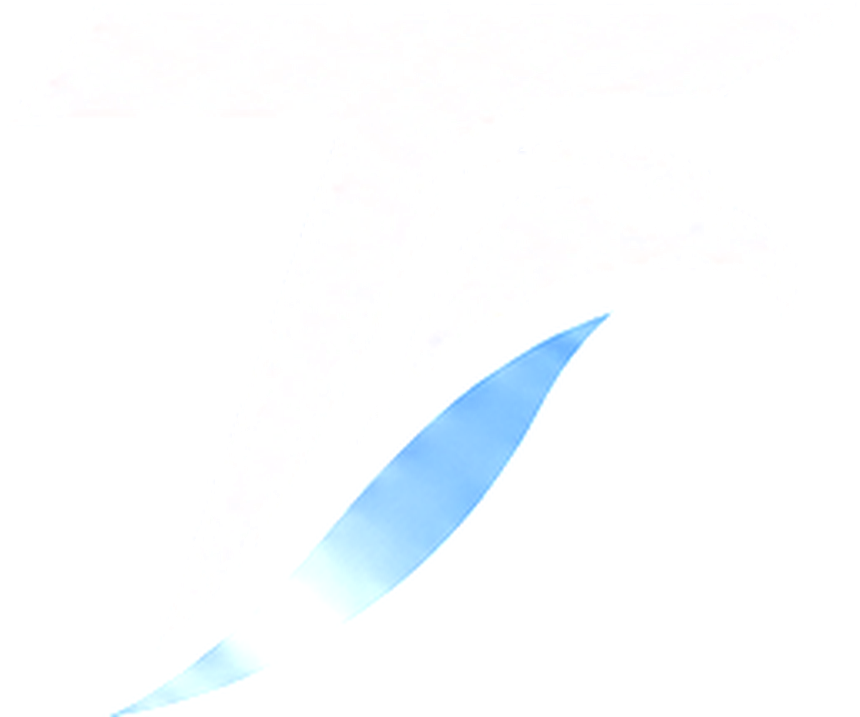
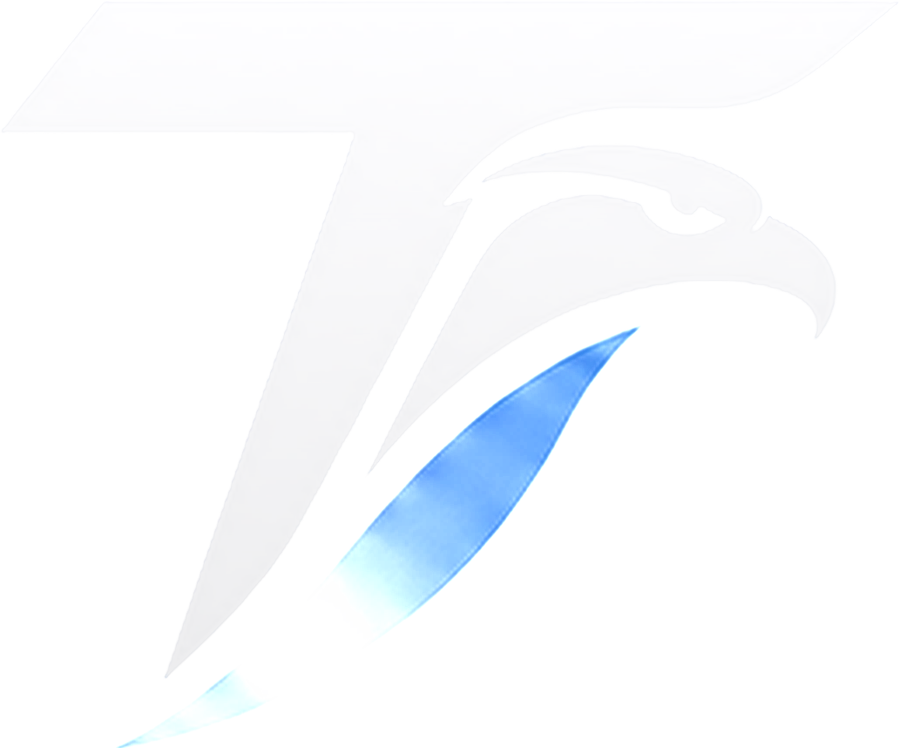
Animate the hero falcon and re-render it sharper
The mark is now three layers extracted from the banner with a 4x
supersampled key and a smootherstep alpha (no more glow halo), the
white fill flattened to a clean top-lit gradient: cobalt feather,
white bird, and a sheen band masked to the bird's own silhouette.

Entrance: the feather sweeps in, the bird lands on it, the amber eye
ignites and hands over to the resting pulse, and the sheen crosses
once (again on hero hover). At rest it floats slowly and tilts a few
degrees toward a fine pointer. Everything honours reduced-motion.

diff --git a/assets/styles.css b/assets/styles.css
@@ -202,20 +202,50 @@ strong{font-weight:600}
 .hero-trust span{display:inline-flex;align-items:center;gap:9px}
 .hero-trust .tick{width:14px;height:14px;color:#6E9BFF}
 
-/* The falcon */
+/* The falcon — layered: cobalt feather sweeps in, the bird lands on it,
+   the eye ignites, a sheen crosses the mark, then it settles into a slow
+   float with a pointer-tracked tilt. All of it opt-out via reduced-motion. */
 .hero-falcon{position:relative;display:none;pointer-events:none}
 @media(min-width:980px){.hero-falcon{display:block}}
 .hero-falcon .art{position:relative;width:min(43vw,600px);margin-left:auto;transform:translateX(1%)}
-.hero-falcon img{width:100%;
-  filter:drop-shadow(0 30px 60px rgba(0,0,0,.35));
+.hero-falcon .float{animation:falconFloat 9s ease-in-out 2.6s infinite}
+.hero-falcon .tilt{position:relative;aspect-ratio:900/748;
+  transform-style:preserve-3d;transition:transform .22s ease-out;
+  filter:drop-shadow(0 30px 60px rgba(0,0,0,.35))}
+.hero-falcon .tilt img{position:absolute;inset:0;width:100%;
   -webkit-mask-image:linear-gradient(200deg,#000 62%,transparent 96%);
           mask-image:linear-gradient(200deg,#000 62%,transparent 96%)}
-.hero-falcon .eye{ /* amber glow precisely on the falcon's eye: 79% / 28.5% */
-  content:"";position:absolute;left:79%;top:28.5%;width:22%;aspect-ratio:1;
+.hero-falcon .l-feather{animation:featherIn .8s var(--ease) .15s both}
+.hero-falcon .l-bird{animation:birdIn .9s var(--ease) .35s both}
+@keyframes featherIn{
+  from{opacity:0;transform:translate(-38px,56px) rotate(-12deg)}
+  to{opacity:1;transform:none}}
+@keyframes birdIn{
+  from{opacity:0;transform:translateY(26px) scale(.96)}
+  to{opacity:1;transform:none}}
+@keyframes falconFloat{0%,100%{transform:translateY(0)}50%{transform:translateY(-9px)}}
+
+/* sheen: a light band that sweeps once across the bird's own silhouette */
+.hero-falcon .sheen{position:absolute;inset:0;
+  -webkit-mask-image:url("/assets/falcon-bird.png");mask-image:url("/assets/falcon-bird.png");
+  -webkit-mask-size:100% 100%;mask-size:100% 100%;
+  background:linear-gradient(115deg,transparent 40%,rgba(255,255,255,.55) 50%,rgba(180,205,255,.25) 54%,transparent 62%);
+  background-size:260% 100%;background-repeat:no-repeat;
+  background-position:180% 0;
+  animation:sheenSweep 1.2s ease-out 1.35s both}
+@keyframes sheenSweep{from{background-position:180% 0}to{background-position:-120% 0}}
+.hero:hover .sheen{animation:sheenSweep 1.2s ease-out}
+
+/* eye: ignition flare, then the resting pulse takes over */
+.hero-falcon .eye{position:absolute;left:79%;top:28.5%;width:22%;aspect-ratio:1;
   transform:translate(-50%,-50%);border-radius:50%;
   background:radial-gradient(circle,rgba(245,166,35,.85) 0%,rgba(245,166,35,.25) 34%,transparent 70%);
   mix-blend-mode:screen;filter:blur(2px);
-  animation:eyePulse 5.5s ease-in-out infinite}
+  animation:eyeIgnite .9s var(--ease) 1.05s both,eyePulse 5.5s ease-in-out 2.6s infinite}
+@keyframes eyeIgnite{
+  0%{opacity:0;transform:translate(-50%,-50%) scale(.35)}
+  55%{opacity:1;transform:translate(-50%,-50%) scale(1.45)}
+  100%{opacity:.55;transform:translate(-50%,-50%) scale(1)}}
 @keyframes eyePulse{0%,100%{opacity:.55}50%{opacity:1}}
 .hero-fp{position:absolute;inset:auto 0 12% 0;z-index:1;opacity:.6;pointer-events:none}
 
@@ -521,5 +551,6 @@ strong{font-weight:600}
   .reveal{opacity:1;transform:none}
   .flightpath .fp-line{stroke-dashoffset:0}.flightpath .fp-tip{opacity:1}
   .hero-falcon .eye{animation:none;opacity:.8}
+  .hero-falcon .sheen{animation:none;opacity:0}
 }
 @media print{.site-head,.mnav,.hero-fp,.foot-word{display:none}body{background:#fff}}

diff --git a/index.html b/index.html
@@ -123,7 +123,7 @@
 
 <!-- ============================== HERO ============================== -->
 <section class="hero">
-  <img class="hero-ghost" src="/assets/falcon.png" alt="" width="860" height="717" aria-hidden="true">
+  <img class="hero-ghost" src="/assets/falcon.png" alt="" width="900" height="748" aria-hidden="true">
   <div class="hero-fp" aria-hidden="true">
     <svg class="flightpath fp--cobalt" viewBox="0 0 1440 220" preserveAspectRatio="none" role="presentation">
       <path class="fp-line" d="M-20 196 C 300 196, 540 150, 800 104 S 1230 20, 1460 12"/>
@@ -154,8 +154,14 @@
     </div>
     <div class="hero-falcon" aria-hidden="true">
       <div class="art">
-        <img src="/assets/falcon.png" alt="" width="860" height="717" fetchpriority="high">
-        <span class="eye"></span>
+        <div class="float">
+          <div class="tilt">
+            <img class="l-feather" src="/assets/falcon-feather.png" alt="" width="900" height="748" fetchpriority="high">
+            <img class="l-bird" src="/assets/falcon-bird.png" alt="" width="900" height="748" fetchpriority="high">
+            <span class="sheen"></span>
+            <span class="eye"></span>
+          </div>
+        </div>
       </div>
     </div>
   </div>
@@ -407,7 +413,7 @@
 
 <!-- ============================== FINAL CTA ============================== -->
 <section class="cta-band">
-  <img class="falcon-peek" src="/assets/falcon.png" alt="" width="860" height="717" aria-hidden="true" loading="lazy">
+  <img class="falcon-peek" src="/assets/falcon.png" alt="" width="900" height="748" aria-hidden="true" loading="lazy">
   <div class="wrap">
     <div>
       <p class="eyebrow">Get started</p>

diff --git a/_src/pages/index.html b/_src/pages/index.html
@@ -52,7 +52,7 @@
 
 <!-- ============================== HERO ============================== -->
 <section class="hero">
-  <img class="hero-ghost" src="/assets/falcon.png" alt="" width="860" height="717" aria-hidden="true">
+  <img class="hero-ghost" src="/assets/falcon.png" alt="" width="900" height="748" aria-hidden="true">
   <div class="hero-fp" aria-hidden="true">
     <svg class="flightpath fp--cobalt" viewBox="0 0 1440 220" preserveAspectRatio="none" role="presentation">
       <path class="fp-line" d="M-20 196 C 300 196, 540 150, 800 104 S 1230 20, 1460 12"/>
@@ -83,8 +83,14 @@
     </div>
     <div class="hero-falcon" aria-hidden="true">
       <div class="art">
-        <img src="/assets/falcon.png" alt="" width="860" height="717" fetchpriority="high">
-        <span class="eye"></span>
+        <div class="float">
+          <div class="tilt">
+            <img class="l-feather" src="/assets/falcon-feather.png" alt="" width="900" height="748" fetchpriority="high">
+            <img class="l-bird" src="/assets/falcon-bird.png" alt="" width="900" height="748" fetchpriority="high">
+            <span class="sheen"></span>
+            <span class="eye"></span>
+          </div>
+        </div>
       </div>
     </div>
   </div>
@@ -336,7 +342,7 @@
 
 <!-- ============================== FINAL CTA ============================== -->
 <section class="cta-band">
-  <img class="falcon-peek" src="/assets/falcon.png" alt="" width="860" height="717" aria-hidden="true" loading="lazy">
+  <img class="falcon-peek" src="/assets/falcon.png" alt="" width="900" height="748" aria-hidden="true" loading="lazy">
   <div class="wrap">
     <div>
       <p class="eyebrow">Get started</p>

diff --git a/assets/site.js b/assets/site.js
@@ -96,13 +96,26 @@
     fps.forEach(function (s) { fio.observe(s); });
   }
 
-  /* ---- hero falcon parallax (very subtle) ---- */
+  /* ---- hero falcon: scroll parallax + pointer tilt ---- */
   var art = document.querySelector(".hero-falcon .art");
   if (art && !reduce) {
     window.addEventListener("scroll", function () {
       var y = Math.min(window.scrollY, 900);
       art.style.transform = "translateX(1%) translateY(" + y * 0.06 + "px)";
     }, { passive: true });
+  }
+  var tilt = document.querySelector(".hero-falcon .tilt");
+  var hero = document.querySelector(".hero");
+  if (tilt && hero && !reduce && window.matchMedia("(pointer: fine)").matches) {
+    hero.addEventListener("pointermove", function (e) {
+      var r = hero.getBoundingClientRect();
+      var x = (e.clientX - r.left) / r.width - 0.5;
+      var y = (e.clientY - r.top) / r.height - 0.5;
+      tilt.style.transform =
+        "perspective(1100px) rotateY(" + (x * 7).toFixed(2) + "deg)" +
+        " rotateX(" + (-y * 5).toFixed(2) + "deg)";
+    });
+    hero.addEventListener("pointerleave", function () { tilt.style.transform = ""; });
   }
 
   /* ---- enquiry form (contact page only) --------------------------------

diff --git a/custom-software.html b/custom-software.html
@@ -79,7 +79,7 @@
 </script>
 
 <section class="page-hero">
-  <img class="mini-falcon" src="/assets/falcon.png" alt="" width="860" height="717" aria-hidden="true">
+  <img class="mini-falcon" src="/assets/falcon.png" alt="" width="900" height="748" aria-hidden="true">
   <div class="wrap">
     <nav class="crumbs" aria-label="Breadcrumb"><a href="/">Home</a><span>/</span><a href="/services">Services</a><span>/</span><span aria-current="page">Custom software</span></nav>
     <h1>Custom software that fits the way you actually work<span class="dot">.</span></h1>
@@ -209,7 +209,7 @@
 </section>
 
 <section class="cta-band">
-  <img class="falcon-peek" src="/assets/falcon.png" alt="" width="860" height="717" aria-hidden="true" loading="lazy">
+  <img class="falcon-peek" src="/assets/falcon.png" alt="" width="900" height="748" aria-hidden="true" loading="lazy">
   <div class="wrap">
     <div>
       <p class="eyebrow">Get started</p>

diff --git a/web-design.html b/web-design.html
@@ -79,7 +79,7 @@
 </script>
 
 <section class="page-hero">
-  <img class="mini-falcon" src="/assets/falcon.png" alt="" width="860" height="717" aria-hidden="true">
+  <img class="mini-falcon" src="/assets/falcon.png" alt="" width="900" height="748" aria-hidden="true">
   <div class="wrap">
     <nav class="crumbs" aria-label="Breadcrumb"><a href="/">Home</a><span>/</span><a href="/services">Services</a><span>/</span><span aria-current="page">Bespoke websites</span></nav>
     <h1>Websites built to win work, not to win awards<span class="dot">.</span></h1>
@@ -216,7 +216,7 @@
 </section>
 
 <section class="cta-band">
-  <img class="falcon-peek" src="/assets/falcon.png" alt="" width="860" height="717" aria-hidden="true" loading="lazy">
+  <img class="falcon-peek" src="/assets/falcon.png" alt="" width="900" height="748" aria-hidden="true" loading="lazy">
   <div class="wrap">
     <div>
       <p class="eyebrow">Get started</p>

diff --git a/research.html b/research.html
@@ -79,7 +79,7 @@
 </script>
 
 <section class="page-hero">
-  <img class="mini-falcon" src="/assets/falcon.png" alt="" width="860" height="717" aria-hidden="true">
+  <img class="mini-falcon" src="/assets/falcon.png" alt="" width="900" height="748" aria-hidden="true">
   <div class="wrap">
     <nav class="crumbs" aria-label="Breadcrumb"><a href="/">Home</a><span>/</span><a href="/services">Services</a><span>/</span><span aria-current="page">Research &amp; strategy</span></nav>
     <h1>Decisions deserve better than a hunch<span class="dot">.</span></h1>
@@ -170,7 +170,7 @@
 </section>
 
 <section class="cta-band">
-  <img class="falcon-peek" src="/assets/falcon.png" alt="" width="860" height="717" aria-hidden="true" loading="lazy">
+  <img class="falcon-peek" src="/assets/falcon.png" alt="" width="900" height="748" aria-hidden="true" loading="lazy">
   <div class="wrap">
     <div>
       <p class="eyebrow">Get started</p>

diff --git a/work.html b/work.html
@@ -71,7 +71,7 @@
 
 <main id="main">
 <section class="page-hero">
-  <img class="mini-falcon" src="/assets/falcon.png" alt="" width="860" height="717" aria-hidden="true">
+  <img class="mini-falcon" src="/assets/falcon.png" alt="" width="900" height="748" aria-hidden="true">
   <div class="wrap">
     <nav class="crumbs" aria-label="Breadcrumb"><a href="/">Home</a><span>/</span><span aria-current="page">Work</span></nav>
     <h1>Three clients. Real artefacts<span class="dot">.</span></h1>
@@ -197,7 +197,7 @@
 <!-- Testimonials land here once clients have approved them in writing. -->
 
 <section class="cta-band">
-  <img class="falcon-peek" src="/assets/falcon.png" alt="" width="860" height="717" aria-hidden="true" loading="lazy">
+  <img class="falcon-peek" src="/assets/falcon.png" alt="" width="900" height="748" aria-hidden="true" loading="lazy">
   <div class="wrap">
     <div>
       <p class="eyebrow">Get started</p>

diff --git a/seo.html b/seo.html
@@ -79,7 +79,7 @@
 </script>
 
 <section class="page-hero">
-  <img class="mini-falcon" src="/assets/falcon.png" alt="" width="860" height="717" aria-hidden="true">
+  <img class="mini-falcon" src="/assets/falcon.png" alt="" width="900" height="748" aria-hidden="true">
   <div class="wrap">
     <nav class="crumbs" aria-label="Breadcrumb"><a href="/">Home</a><span>/</span><a href="/services">Services</a><span>/</span><span aria-current="page">Local SEO</span></nav>
     <h1>SEO without the smoke<span class="dot">.</span></h1>
@@ -195,7 +195,7 @@
 </section>
 
 <section class="cta-band">
-  <img class="falcon-peek" src="/assets/falcon.png" alt="" width="860" height="717" aria-hidden="true" loading="lazy">
+  <img class="falcon-peek" src="/assets/falcon.png" alt="" width="900" height="748" aria-hidden="true" loading="lazy">
   <div class="wrap">
     <div>
       <p class="eyebrow">Get started</p>

diff --git a/pricing.html b/pricing.html
@@ -71,7 +71,7 @@
 
 <main id="main">
 <section class="page-hero">
-  <img class="mini-falcon" src="/assets/falcon.png" alt="" width="860" height="717" aria-hidden="true">
+  <img class="mini-falcon" src="/assets/falcon.png" alt="" width="900" height="748" aria-hidden="true">
   <div class="wrap">
     <nav class="crumbs" aria-label="Breadcrumb"><a href="/">Home</a><span>/</span><span aria-current="page">Pricing</span></nav>
     <h1>Published, so you can rule me out without a phone call<span class="dot">.</span></h1>
@@ -259,7 +259,7 @@
 </section>
 
 <section class="cta-band">
-  <img class="falcon-peek" src="/assets/falcon.png" alt="" width="860" height="717" aria-hidden="true" loading="lazy">
+  <img class="falcon-peek" src="/assets/falcon.png" alt="" width="900" height="748" aria-hidden="true" loading="lazy">
   <div class="wrap">
     <div>
       <p class="eyebrow">Get started</p>

diff --git a/services.html b/services.html
@@ -71,7 +71,7 @@
 
 <main id="main">
 <section class="page-hero">
-  <img class="mini-falcon" src="/assets/falcon.png" alt="" width="860" height="717" aria-hidden="true">
+  <img class="mini-falcon" src="/assets/falcon.png" alt="" width="900" height="748" aria-hidden="true">
   <div class="wrap">
     <nav class="crumbs" aria-label="Breadcrumb"><a href="/">Home</a><span>/</span><span aria-current="page">Services</span></nav>
     <h1>Four things, done properly<span class="dot">.</span></h1>
@@ -129,7 +129,7 @@
 </section>
 
 <section class="cta-band">
-  <img class="falcon-peek" src="/assets/falcon.png" alt="" width="860" height="717" aria-hidden="true" loading="lazy">
+  <img class="falcon-peek" src="/assets/falcon.png" alt="" width="900" height="748" aria-hidden="true" loading="lazy">
   <div class="wrap">
     <div>
       <p class="eyebrow">Get started</p>

diff --git a/groundwork.html b/groundwork.html
@@ -79,7 +79,7 @@
 </script>
 
 <section class="page-hero">
-  <img class="mini-falcon" src="/assets/falcon.png" alt="" width="860" height="717" aria-hidden="true">
+  <img class="mini-falcon" src="/assets/falcon.png" alt="" width="900" height="748" aria-hidden="true">
   <div class="wrap">
     <nav class="crumbs" aria-label="Breadcrumb"><a href="/">Home</a><span>/</span><span aria-current="page">The Groundwork Visit</span></nav>
     <h1>I come to you first<span class="dot">.</span></h1>
@@ -175,7 +175,7 @@
 </section>
 
 <section class="cta-band">
-  <img class="falcon-peek" src="/assets/falcon.png" alt="" width="860" height="717" aria-hidden="true" loading="lazy">
+  <img class="falcon-peek" src="/assets/falcon.png" alt="" width="900" height="748" aria-hidden="true" loading="lazy">
   <div class="wrap">
     <div>
       <p class="eyebrow">Get started</p>
